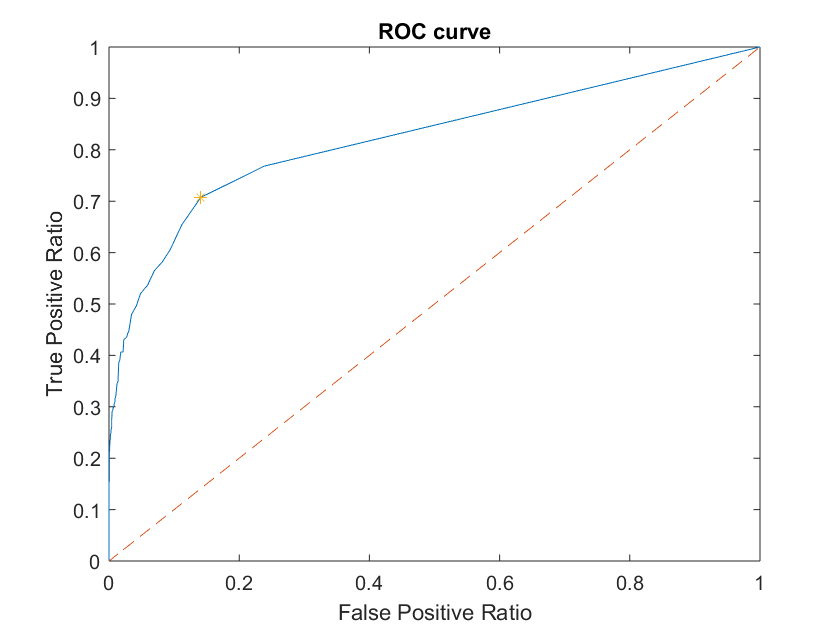
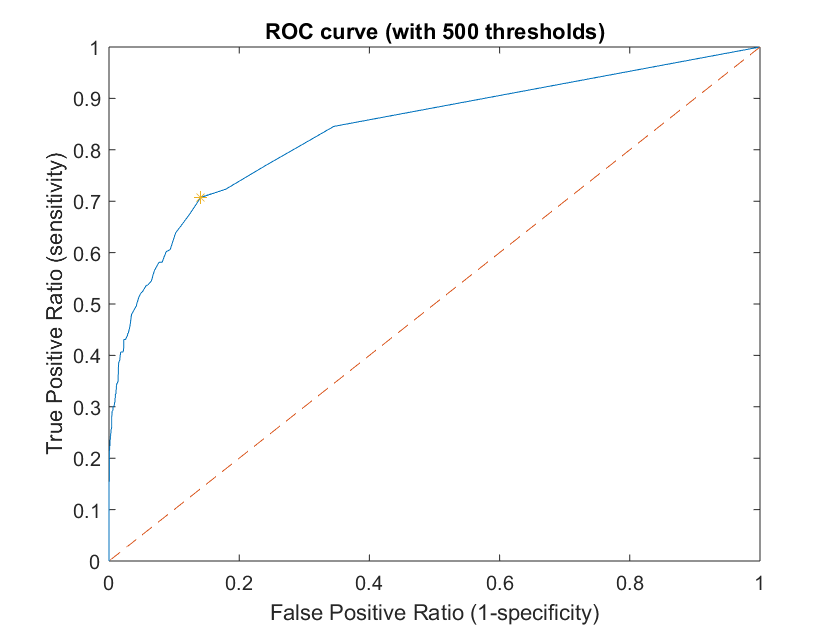
-- Threshold Crying Removing OK --

diff --git a/Implementation/Codes/main_Julie.m b/Implementation/Codes/main_Julie.m
@@ -45,7 +45,7 @@ excelTempPreprocessing = strcat([pathExcelPreprocessing excelFilePreprocessing],
 
 % Add the headers in the Excel file
 if (init_learning == 0)
-    xlswrite([pathExcelPreprocessing excelFilePreprocessing], [{'Threshold'},  {'p25'}, {'p75'}, {'Window_label'}, {'Overlap_label'}], 'Learning CS Features', 'A1'); 
+    xlswrite([pathExcelPreprocessing excelFilePreprocessing], [{'Threshold'},  {'p25'}, {'p75'}, {'Window_label'}, {'Overlap_label'}], 'Learning CS Features', 'A1');
 end
 
 
@@ -72,6 +72,7 @@ for i = 1:lengthTot % loop to have all recording
     % Name of the sample
     tempName=names_cell{i};
     disp('READ - main_Julie.m');
+    tempName='22.mp3';
     disp(tempName);
     
     % Get the number of the recording by removing the '.mp3'
@@ -99,9 +100,9 @@ for i = 1:lengthTot % loop to have all recording
         xlswrite([pathExcelPreprocessing excelFilePreprocessing], [threshold ; band(1); band(end); window_label; overlap_label]', 'Learning CS Features', 'A2');
         xlswrite([pathExcelPreprocessing excelFilePreprocessing], [label_annotated], 'Annotated Labels', 'A1');
         init_learning=1;
-    end 
+    end
     
-    % -- Removing the CS    
+    % -- Removing the CS
     % Reading data from the Excel fiel
     outputs_ExcelProcessing=xlsread([pathExcelPreprocessing excelFilePreprocessing],'Learning CS Features','A2:E2');
     threshold=outputs_ExcelProcessing(1); band(1)=outputs_ExcelProcessing(2); band(2)=outputs_ExcelProcessing(3); window_label=outputs_ExcelProcessing(4); overlap_label=outputs_ExcelProcessing(5);
@@ -110,6 +111,14 @@ for i = 1:lengthTot % loop to have all recording
     % Removing the data
     [xsc, label_learning_xss]=crying_removing(xss, fn, threshold, band, window_label, overlap_label);
     
+    % -- Display NCS and CS
+% CS and NCS color
+NCS_color=[0 0.6 0];
+CS_color=[0.8 0 0];
+
+% Display xss, annotated labels, learnt labels and xsc
+display_CS_NCS_final(xss, xsc, fn, signal_n, label_annotated, window_label, overlap_label, label_learning_xss, NCS_color, CS_color);
+
     
     %% -- Filtering BP 100-1000Hz
     y = filterbp(xsc,fn);
@@ -145,13 +154,6 @@ end
 
 %% ****** DISPLAY ******
 
-%% -- Display NCS and CS
-% CS and NCS color
-NCS_color=[0 0.6 0];
-CS_color=[0.8 0 0];
-
-% Display xss, annotated labels, learnt labels and xsc
-display_CS_NCS_final(xss, xsc, fn, signal_n, label_annotated, window_label, overlap_label, label_learning_xss, NCS_color, CS_color);
 
 %% -- FFT Representation
 

diff --git a/Implementation/Codes/Preprocessing/crying_learning.m b/Implementation/Codes/Preprocessing/crying_learning.m
@@ -3,9 +3,13 @@ function [final_threshold, band, label_final, window, overlap] = crying_learning
 
 %% INPUTS AND OUTPUTS
 %  -- Inputs --
-% names_cell:
+% names_cell: Name of the samples 
 % -- Outputs --
-
+% final_threshold: Threshold used for distinguish CS and NCS
+% band: Frequency band used to compare the power ratio of CS and NCS
+% label_final: Annotated labels of the signals
+% window: Window used for labelling (annotations)
+% overlap: Overlap used for labelling (annotations)
 
 %% INITIALISATION
 % -- Data
@@ -20,7 +24,6 @@ overlap=0;
 % -- Parameters for the power ratio
 pass_band=[0:2000];
 band_width=100;
-
 
 path = pwd;
 
@@ -139,8 +142,10 @@ for i = 1:length(names_cell)
 end
 
 % -- ROC
-nb_thresholds=1000; % Number of thresholds for the ROC
-[fpr, tpr, final_threshold] = threshold_ROC( nb_thresholds, powerband ); % Compute the ROC
+nb_thresholds=500; % Number of thresholds for the ROC
+label_annotated=powerband(:,1);
+powerband=powerband(:,2);
+[fpr, tpr, final_threshold] = threshold_ROC( nb_thresholds, label_annotated, powerband); % Compute the ROC
 
 
 
